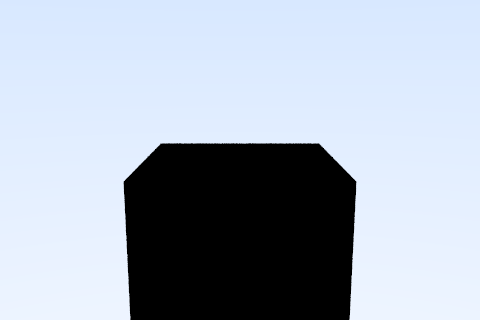
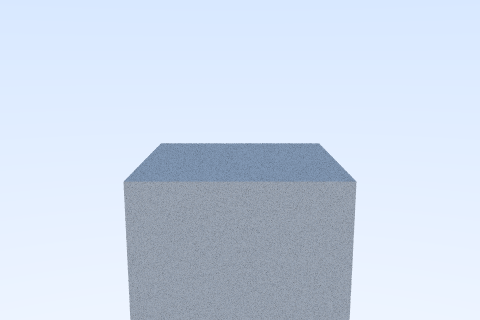
proper cube rendering

Changed region(s): [[0.25, 0.4375, 0.75, 1.0]]

diff --git a/src/main.rs b/src/main.rs
@@ -1,23 +1,31 @@
+mod bvh;
 mod camera;
 mod geometry;
 mod material;
 mod vec3;
 mod world;
-mod bvh;
 
+use std::sync::Arc;
+
+use crate::bvh::BVHNode;
 use crate::camera::Camera;
 use crate::geometry::mesh::Mesh;
-use crate::geometry::sphere::Sphere;
-use crate::material::Dielectric;
 use crate::material::Lambertian;
-use crate::material::Metal;
 use crate::vec3::Vec3;
 use crate::world::World;
-use geometry::HittableList;
 
 fn main() {
     fastrand::seed(42);
-    let mut world = World::new_random_spheres(
+    let mut objects: Vec<Arc<dyn geometry::Hittable>> = vec![Arc::new(Mesh::build_cube(
+        Vec3::new(0.0, 0.0, -5.0),
+        2.0,
+        Box::new(Lambertian {
+            albedo: Vec3::new(0.5, 0.5, 0.5),
+        }),
+    ))];
+    let objects = BVHNode::of_objects_and_endpoints(&mut objects);
+
+    let mut world = World::new(
         Camera::new(
             480,
             320,
@@ -25,7 +33,7 @@ fn main() {
             Vec3::new(0.0, 2.0, 0.0),
             Vec3::new(-0.2, 0.0, 0.0),
         ),
-        100,
+        objects,
     );
     let start = std::time::Instant::now();
     world.render();

diff --git a/src/geometry/mesh.rs b/src/geometry/mesh.rs
@@ -56,9 +56,14 @@ impl Triangle {
         if t < 1e-8 {
             return None;
         }
+        let normal = if ray.direction.dot(&self.normal) > 0.0 {
+            self.normal.scalar_mul(-1.0)
+        } else {
+            self.normal
+        };
         Some(HitRecord {
             point: ray.origin.add(&ray.direction.scalar_mul(t)),
-            normal: self.normal,
+            normal,
             material,
             t,
         })
